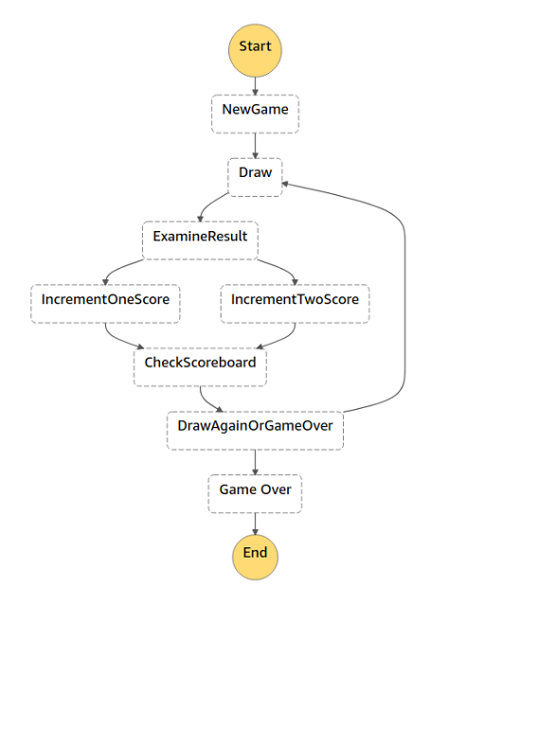
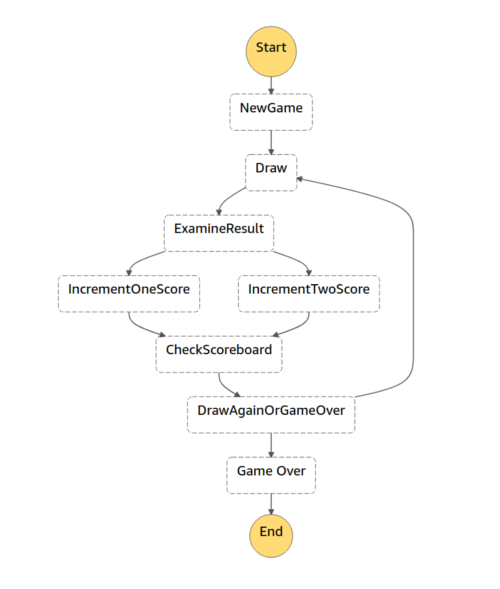
Fix state machine image padding

diff --git a/README.md b/README.md
@@ -16,7 +16,7 @@ The application will be deployed by CDK using your `default` profile and associa
 
 The step function is comprised of a DynamoDB table and several lambda functions. The state machine looks like:
 
-![Step functions demo](step-functions-demo.png).
+![Step functions demo](step-functions-demo.png)
 
 ### Score table
 
